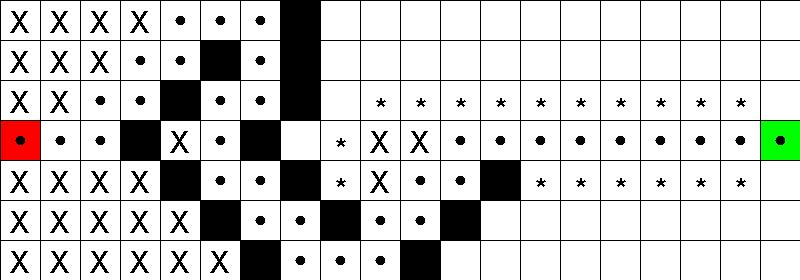
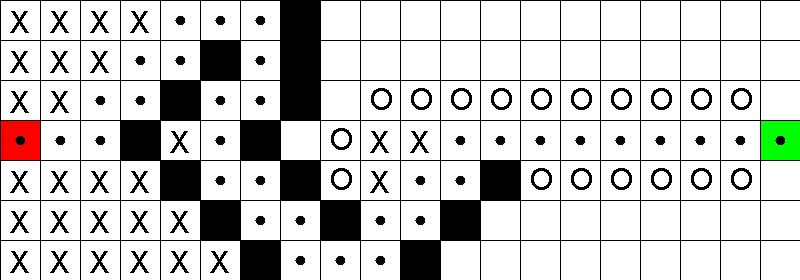
New images + documentation

diff --git a/Øving 3/src/pathfinding/PathFinding.java b/Øving 3/src/pathfinding/PathFinding.java
@@ -37,14 +37,17 @@ public class PathFinding {
 
     public static final PathRunnable[] PATH_RUNNABLES = {ASTAR, DIJKSTRA, BFS};
 
+    //Finds the shortest path with aStar
     public static Path aStar(Node start, Node end) {
         return genericPathFinder(new PriorityQueue<>(ASTAR_COMPARATOR), start, end);
     }
 
+    //Finds the shortest path with dijkstra
     public static Path dijkstra(Node start, Node end) {
         return genericPathFinder(new PriorityQueue<>(DIJKSTRA_COMPARATOR), start, end);
     }
 
+    //Finds the "shortest" path with bfs
     public static Path bfs(Node start, Node end) {
         return genericPathFinder(new LinkedList<>(), start, end);
     }
@@ -73,10 +76,12 @@ public class PathFinding {
             }
         }
         List<Node> path = reconstruct(end);
+        //Find the closed nodes that are not in the path
         List<Node> closedSet = closed.stream().filter((node) -> !path.contains(node)).collect(Collectors.toList());
         return new Path(path.toArray(new Node[path.size()]), open.toArray(new Node[open.size()]), closedSet.toArray(new Node[closedSet.size()]));
     }
 
+    //Reconstructs the path by following the trail back to start
     private static ArrayList<Node> reconstruct(Node end) {
         ArrayList<Node> path = new ArrayList<>();
         Node current = end;
@@ -87,11 +92,13 @@ public class PathFinding {
         return path;
     }
 
+    //Comparator comparing the total cost of a node (its g + h)
     private static final Comparator<Node> ASTAR_COMPARATOR = (n1, n2) -> {
         double diff = n1.getCost() - n2.getCost();
         return diff < 0 ? -1 : diff == 0 ? 0 : 1;
     };
 
+    //Comparator comparing the g cost of a node
     private static final Comparator<Node> DIJKSTRA_COMPARATOR = (n1, n2) -> {
         double diff = n1.getG() - n2.getG();
         return diff < 0 ? -1 : diff == 0 ? 0 : 1;

diff --git a/Øving 3/src/file/ImageCreator.java b/Øving 3/src/file/ImageCreator.java
@@ -14,6 +14,7 @@ import java.util.stream.Stream;
 
 public class ImageCreator {
 
+    //Saves the image for the given solution
     public static final void saveImage(String name, Path path, Node[][] nodes) {
         try {
             BufferedImage image = new BufferedImage(nodes.length * Node.NODE_WIDTH, nodes[0].length * Node.NODE_HEIGHT, BufferedImage.TYPE_INT_RGB);
@@ -27,6 +28,7 @@ public class ImageCreator {
         }
     }
 
+    //Draws the path onto the image
     private static void draw(Node[][] nodes, Path path, Graphics g) {
         Node start = path.getPath()[0], end = path.getPath()[path.getPath().length - 1];
         for (int x = 0; x < nodes.length; x++) {
@@ -54,7 +56,7 @@ public class ImageCreator {
             g.drawString("X", n.getX() * Node.NODE_WIDTH + Node.NODE_WIDTH / 2 - 10, n.getY() * Node.NODE_HEIGHT + Node.NODE_HEIGHT / 2 + 13);
         }
         for (Node n : path.getOpenNodes()) {
-            g.drawString("*", n.getX() * Node.NODE_WIDTH + Node.NODE_WIDTH / 2 - 5, n.getY() * Node.NODE_HEIGHT + Node.NODE_HEIGHT / 2 + 20);
+            g.drawString("O", n.getX() * Node.NODE_WIDTH + Node.NODE_WIDTH / 2 - 10, n.getY() * Node.NODE_HEIGHT + Node.NODE_HEIGHT / 2 + 10);
         }
     }
 }

diff --git a/Øving 3/src/Main.java b/Øving 3/src/Main.java
@@ -8,7 +8,8 @@ import ui.BoardUI;
 
 public class Main {
 
-    private static boolean useUI = true;
+    //Set true to visualize it with a UI, false to generate images
+    private static boolean useUI = false;
 
     public static void main(String... args) {
         if (useUI)
